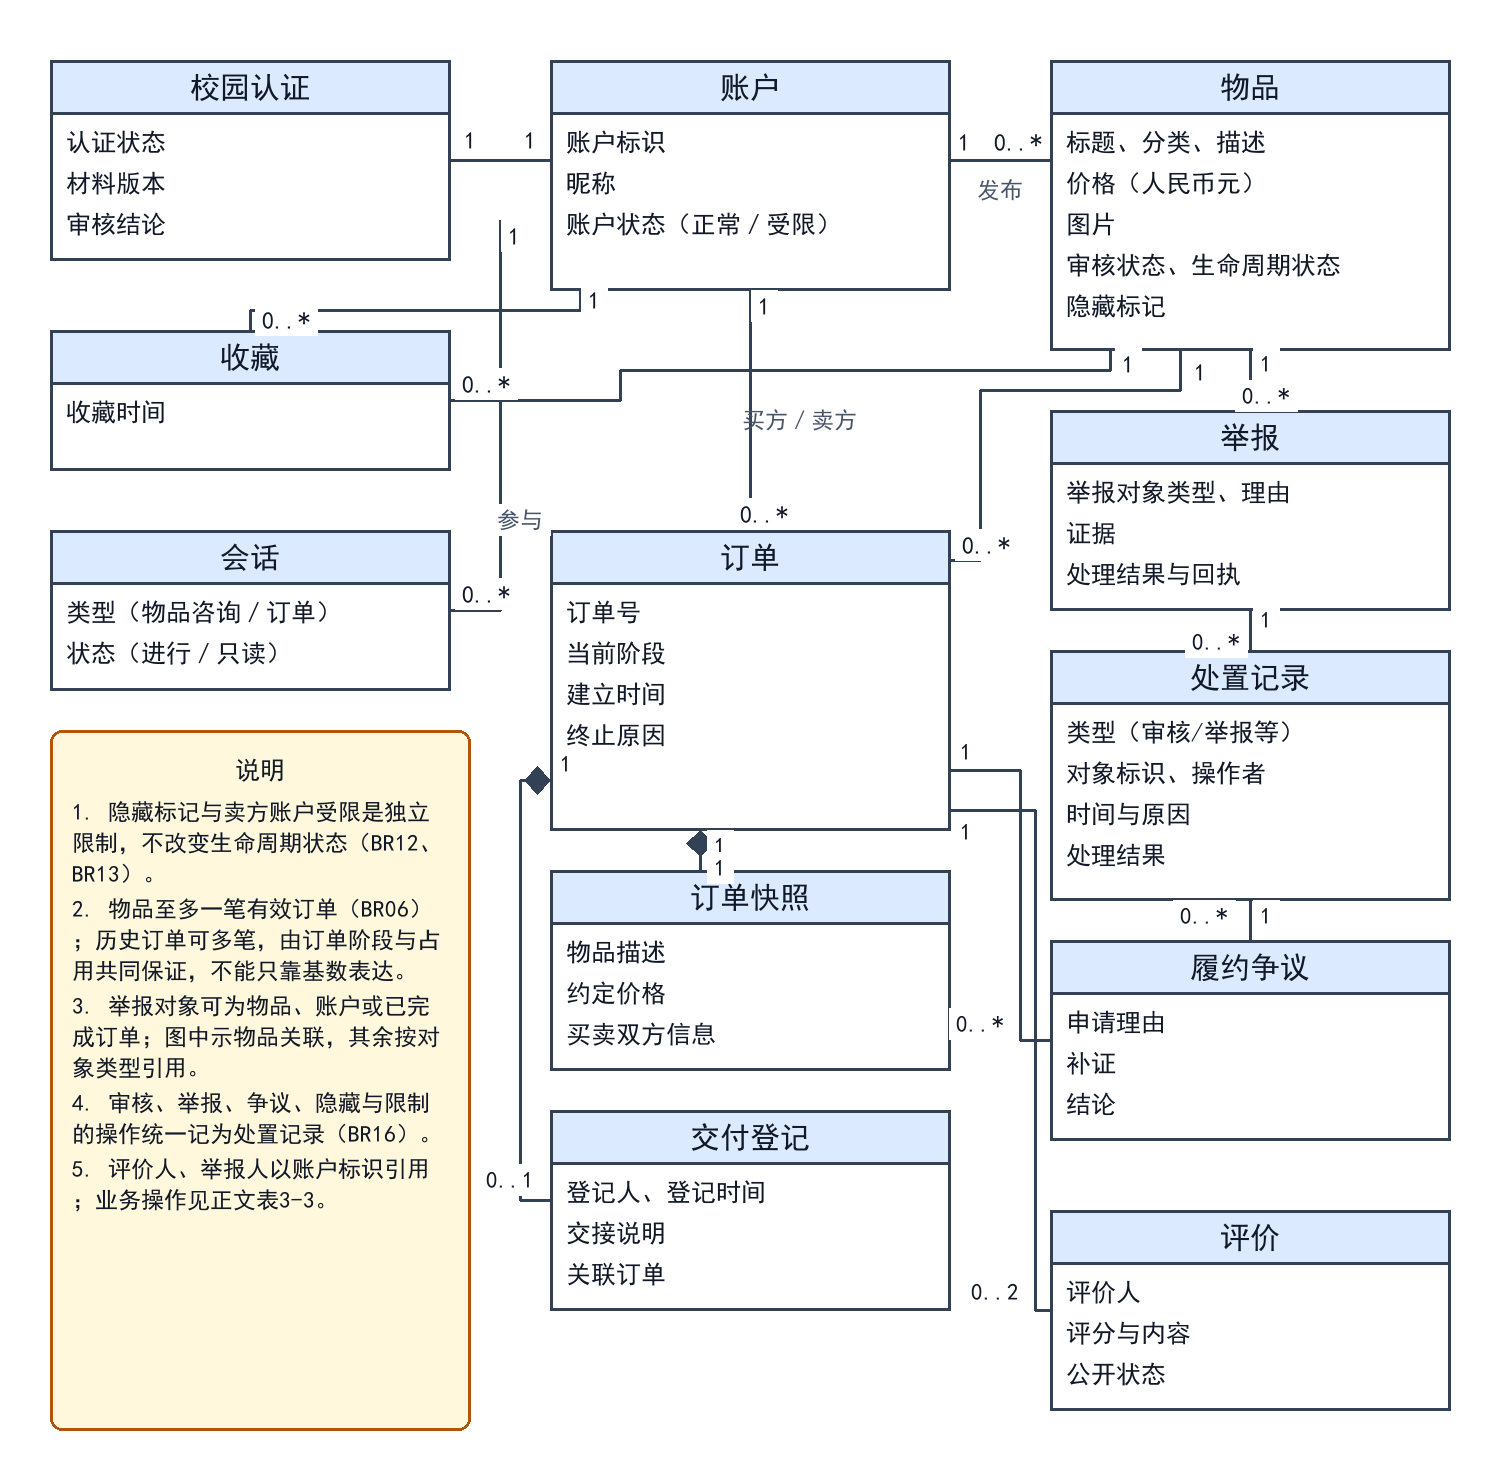
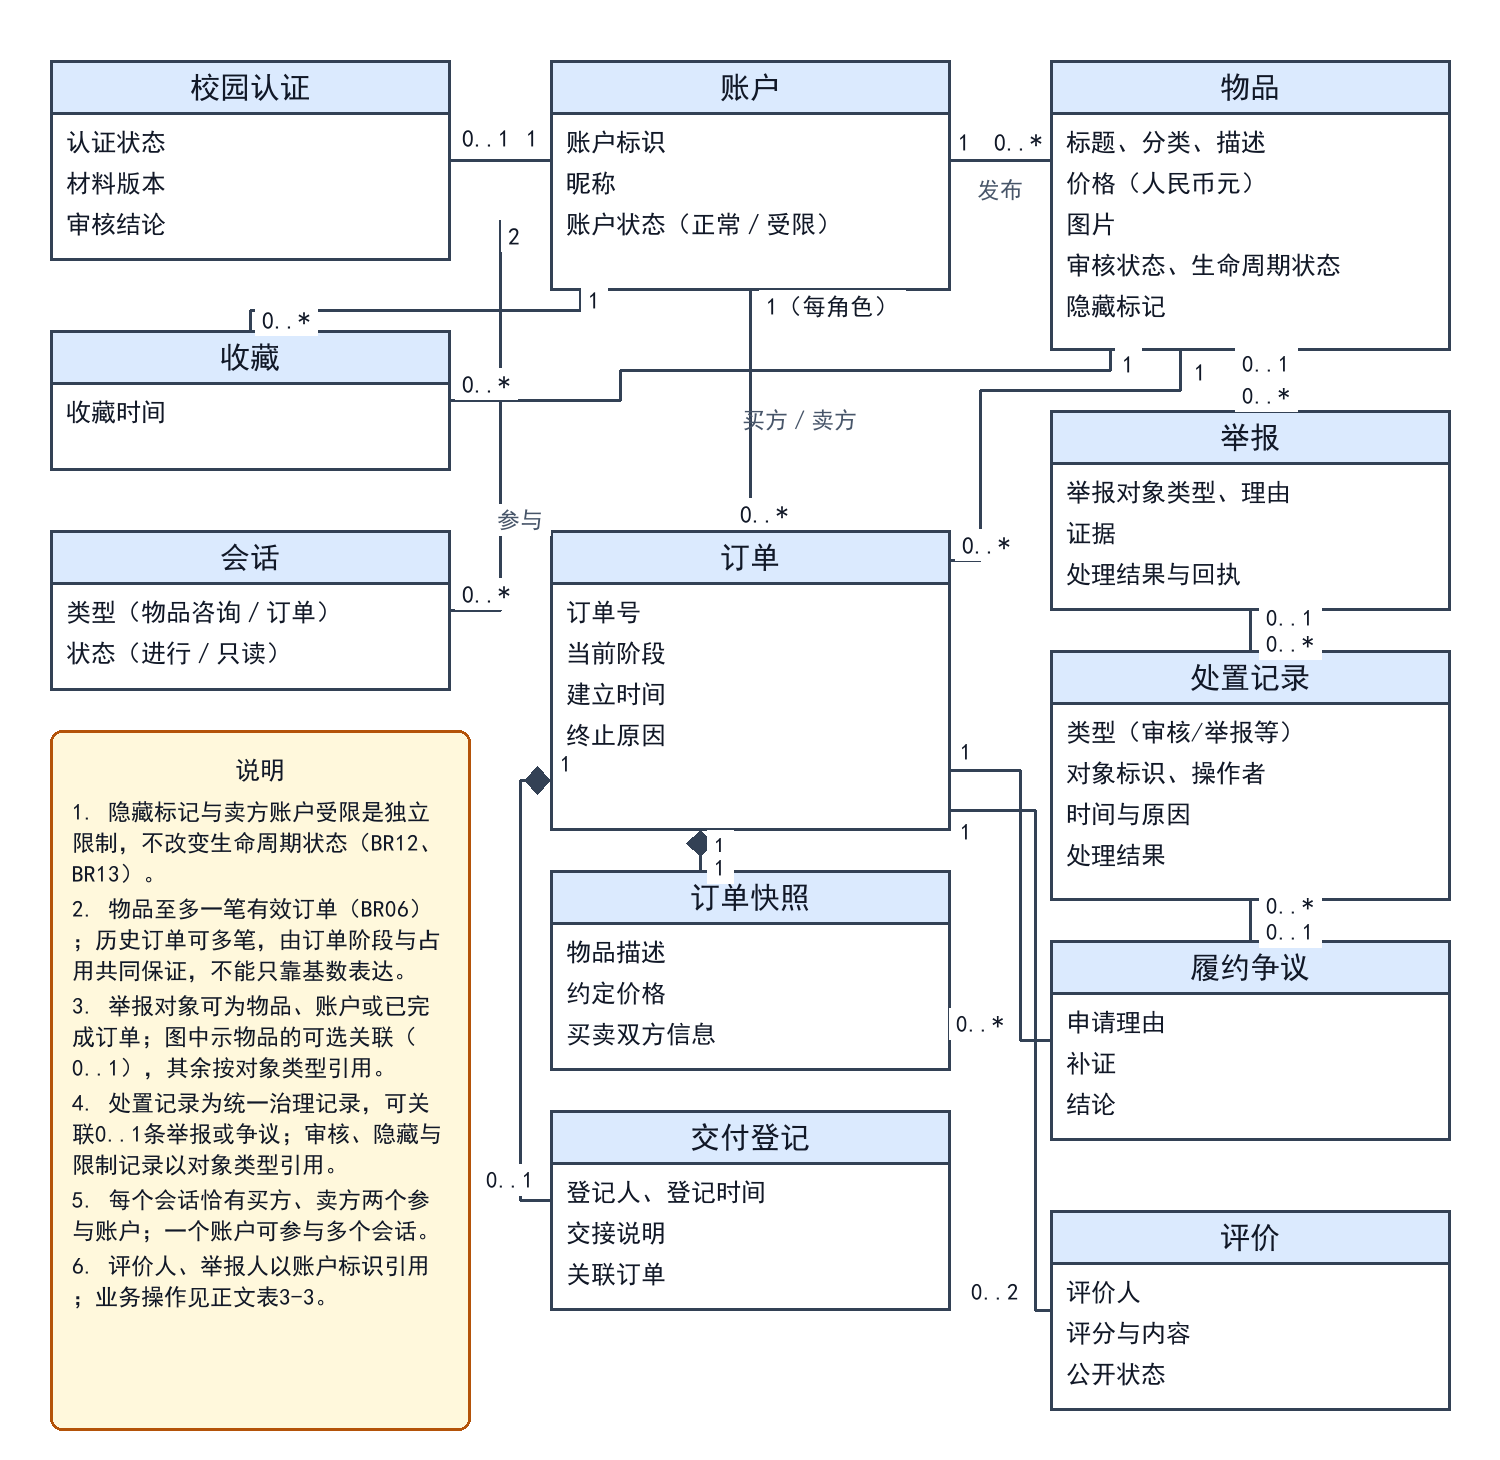
改了下图

diff --git a/attachments/B/图源与导出/生成图3-1领域类图.py b/attachments/B/图源与导出/生成图3-1领域类图.py
@@ -52,18 +52,18 @@ def build():
     g.class_box((550, 1110, 950, 1310), "交付登记", ["登记人、登记时间", "交接说明", "关联订单"])
     g.class_box((1050, 1210, 1450, 1410), "评价", ["评价人", "评分与内容", "公开状态"])
 
-    # 基数与角色标签
-    g.text((470, 140), "1", 24, bg=True)
-    g.text((530, 140), "1", 24, bg=True)
+    # 基数与角色标签（基数标注在相邻类一侧，表示“对端每1个实例对应本端的实例数”）
+    g.text((462, 138), "0..1", 24, bg=True, anchor="lm")
+    g.text((538, 138), "1", 24, bg=True, anchor="rm")
     g.text((964, 142), "1", 24, bg=True)
     g.text((1042, 142), "0..*", 24, bg=True, anchor="rm")
     g.text((1000, 190), "发布", 23, color=MUTED)
     g.text((594, 300), "1", 24, bg=True)
     g.text((262, 320), "0..*", 24, bg=True, anchor="lm")
-    g.text((764, 306), "1", 24, bg=True)
+    g.text((766, 306), "1（每角色）", 24, bg=True, anchor="lm")
     g.text((764, 514), "0..*", 24, bg=True)
     g.text((800, 420), "买方／卖方", 23, color=MUTED)
-    g.text((514, 236), "1", 24, bg=True)
+    g.text((514, 236), "2", 24, bg=True)
     g.text((462, 594), "0..*", 24, bg=True, anchor="lm")
     g.text((520, 520), "参与", 23, color=MUTED, bg=True)
     g.text((462, 384), "0..*", 24, bg=True, anchor="lm")
@@ -78,12 +78,12 @@ def build():
     g.text((1004, 1024), "0..*", 23, bg=True, anchor="rm")
     g.text((966, 832), "1", 23, bg=True)
     g.text((1019, 1292), "0..2", 23, bg=True, anchor="rm")
-    g.text((1266, 364), "1", 23, bg=True)
+    g.text((1266, 364), "0..1", 23, bg=True)
     g.text((1266, 396), "0..*", 23, bg=True)
-    g.text((1266, 620), "1", 23, bg=True)
-    g.text((1240, 642), "0..*", 23, bg=True, anchor="rm")
-    g.text((1228, 916), "0..*", 23, bg=True, anchor="rm")
-    g.text((1266, 916), "1", 23, bg=True)
+    g.text((1266, 618), "0..1", 23, bg=True, anchor="lm")
+    g.text((1266, 644), "0..*", 23, bg=True, anchor="lm")
+    g.text((1266, 906), "0..*", 23, bg=True, anchor="lm")
+    g.text((1266, 932), "0..1", 23, bg=True, anchor="lm")
 
     # 左下说明（左对齐逐行绘制）
     from 绘图工具 import wrap  # noqa: E402
@@ -92,9 +92,10 @@ def build():
     g.text((260, 770), "说明", 25)
     note = ("1. 隐藏标记与卖方账户受限是独立限制，不改变生命周期状态（BR12、BR13）。\n"
             "2. 物品至多一笔有效订单（BR06）；历史订单可多笔，由订单阶段与占用共同保证，不能只靠基数表达。\n"
-            "3. 举报对象可为物品、账户或已完成订单；图中示物品关联，其余按对象类型引用。\n"
-            "4. 审核、举报、争议、隐藏与限制的操作统一记为处置记录（BR16）。\n"
-            "5. 评价人、举报人以账户标识引用；业务操作见正文表3-3。")
+            "3. 举报对象可为物品、账户或已完成订单；图中示物品的可选关联（0..1），其余按对象类型引用。\n"
+            "4. 处置记录为统一治理记录，可关联0..1条举报或争议；审核、隐藏与限制记录以对象类型引用。\n"
+            "5. 每个会话恰有买方、卖方两个参与账户；一个账户可参与多个会话。\n"
+            "6. 评价人、举报人以账户标识引用；业务操作见正文表3-3。")
     y = 812
     for para in note.split("\n"):
         for line in wrap(para, 23, 372):

diff --git a/attachments/B/模型说明与状态转换核对.md b/attachments/B/模型说明与状态转换核对.md
@@ -56,7 +56,7 @@
 ## 一致性核对
 
 - 术语：待审、审核退回、在售、交易中、已成交、已撤下、交易异常终止、待卖方确认、待交付、待买方确认、已完成、已取消、已拒绝、已异常终止，在3.1、5.2、5.3、图5-3、图5-4和表5-2中写法一致；未出现"已隐藏""已下架""争议中"等替代状态。
-- 基数：图3-1中账户—物品、账户—订单、物品—订单、订单—快照、订单—交付登记、订单—评价、订单—争议、物品—举报的基数与3.3文字一致；"至多一笔有效订单"在文字中说明为业务约束，未伪装成基数。
+- 基数：图3-1共14条关联，逐条核对为——账户—校园认证1:0..1、账户—物品1:0..*（发布）、账户—订单1:0..*（每角色各1个账户）、账户—收藏1:0..*、收藏—物品0..*:1、账户—会话2:0..*、物品—订单1:0..*、订单—快照1:1（组合）、订单—交付登记1:0..1（组合）、订单—评价1:0..2、订单—履约争议1:0..*、物品—举报0..1:0..*、举报—处置记录0..1:0..*、履约争议—处置记录0..1:0..*；"至多一笔有效订单"在文字中说明为业务约束，未伪装成基数。
 - 限制标记：隐藏、账户受限、争议受理、处理中和会话只读在3.3、5.2、图5-3图注和图5-2中均表述为资格或标记，未画成状态转换。
 - 规则引用：表5-2每个条件的BR编号均能在第4章找到对应条目；ST-B-09引用BR07、BR09、BR13，未新增"终止后自动恢复在售"的规则。
 - 数据字典：表3-5中的"生命周期状态"约束"只能按表5-2转换"，与5.3一致；"隐藏标记"与"在售"分开登记，未合并为同一字段。

diff --git a/attachments/B/修订说明与审核交接.md b/attachments/B/修订说明与审核交接.md
@@ -25,6 +25,19 @@
 
 新增编号：ST-B-01—ST-B-21、ST-B-S1—ST-B-S6、AE-B-01—AE-B-09、TBD-B-01—TBD-B-04、E-B-01—E-B-13。未新增或修改FR、UC、BR编号，也未改变A的规则确认状态。
 
+## 本轮修正（V-B-01）
+
+图3-1基数经逐条复核，发现4处标注有误，已同时修改图源、导出与正文说明：
+
+| 关联 | 原标注 | 修正后 | 理由 |
+| --- | --- | --- | --- |
+| 账户—校园认证 | 1:1 | 1:0..1 | 未提交认证的账户不建立认证记录 |
+| 账户—会话 | 1:0..* | 2:0..* | 每个会话恰有买卖双方两个参与账户 |
+| 物品—举报 | 1:0..* | 0..1:0..* | 举报对象也可能是账户或已结束订单，物品关联为可选 |
+| 举报／争议—处置记录 | 1:0..* | 0..1:0..* | 处置记录为统一治理记录，审核、隐藏与限制记录不关联举报或争议 |
+
+修改文件：生成图3-1领域类图.py、图3-1_领域类图.svg、图3-1_领域类图.png，正文3.2表3-2与3.3，模型说明与状态转换核对.md。修改后已重跑脚本并核对图面，待C/D复核；本项不改变BR规则和状态转换。
+
 ## 给其他角色的影响
 
 - A：本轮未改第4章，但有两处口径需A确认。其一，BR03的"公开交易"条件在模型中被拆为"在售状态＋无隐藏／无卖方受限"两层；其二，BR19的"终止释放占用但物品仍不可售"对应物品"交易异常终止"状态与ST-B-12重发路径。两项均已写入[模型与规则依据核验记录](模型与规则依据核验记录.md)，请A组织确认后决定是否调整BR03、BR19或表4-2的C05、C06表述；确认前B保留现写法。A的既有段落未被改动。

diff --git a/attachments/B/自查记录.md b/attachments/B/自查记录.md
@@ -12,6 +12,7 @@
 | 其他编号 | AE-B-01—AE-B-09、TBD-B-01—TBD-B-04、E-B-01—E-B-13唯一；未新增FR、UC、BR |
 | 交叉引用 | 正文引用的BR01—BR20、UC01—UC12、FR01—FR24均可在第1—4章找到；图号与文件名一一对应 |
 | 图源与导出 | 五张图均有生成脚本、SVG与PNG；公共绘图工具独立；脚本重跑后PNG哈希不变（以图5-3实测，110FC13F…） |
+| 图3-1基数 | 逐条核对14条关联的基数位置与含义；修正校园认证1→0..1、会话1→2、物品—举报1→0..1、举报／争议—处置记录1→0..1（V-B-01），图源、导出与正文3.2、3.3已同步 |
 | 图内文字 | 画布宽1500像素、最小字号20像素；逐张目视检查标签、箭头和说明框，未发现压字、箭头悬空或文字超出画布 |
 | 术语一致性 | "在售"在3.1、5.2、5.3、图5-3与表5-2中口径一致；隐藏、账户受限、争议受理、处理中、会话只读均表述为标记或资格，未写成状态转换 |
 | Markdown表格 | 每张表的表头与分隔行列数一致，正文单元格未含未转义的竖线 |
